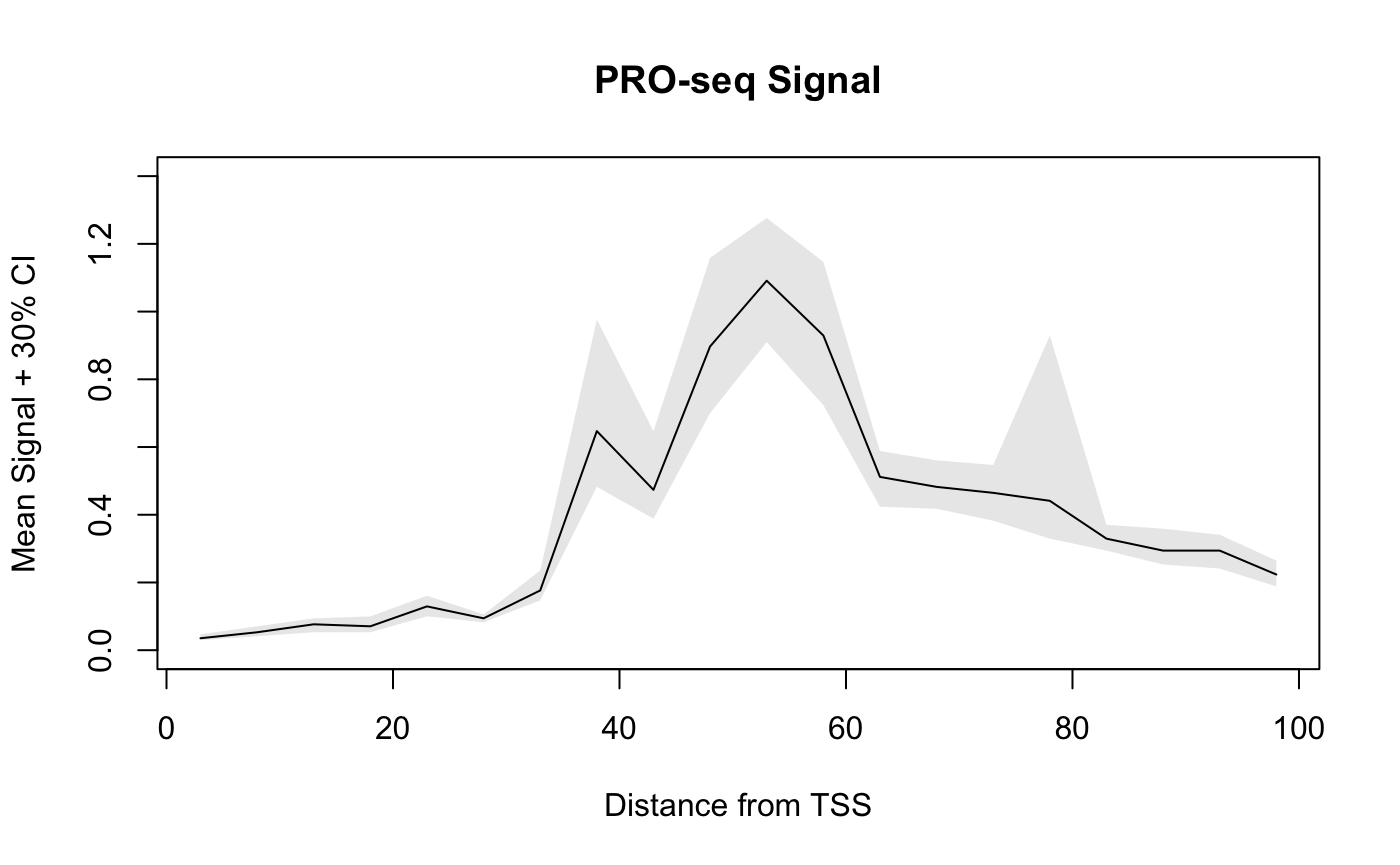
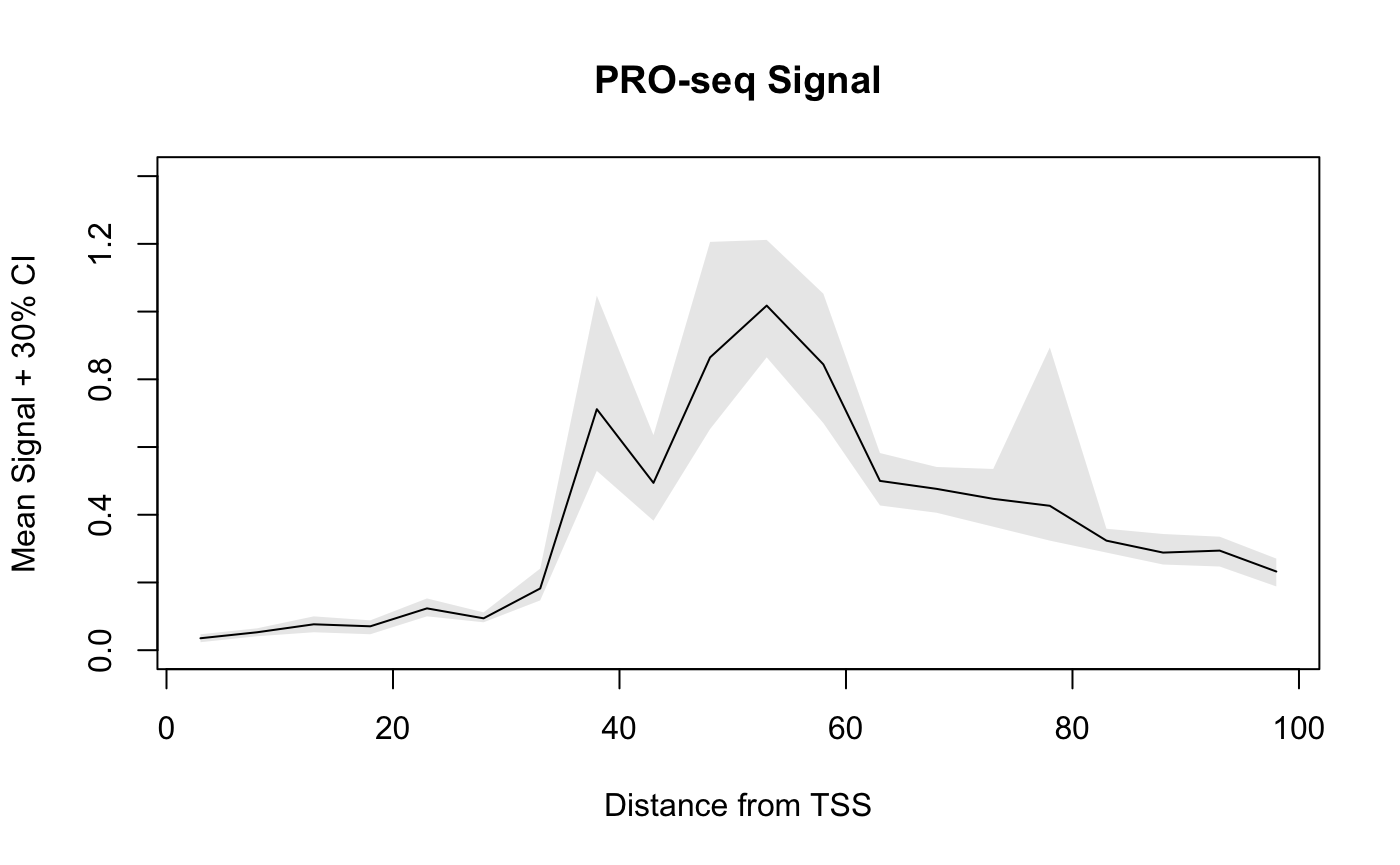
v0.99.15

diff --git a/articles/BRGenomicsOverview.html b/articles/BRGenomicsOverview.html
@@ -31,7 +31,7 @@
       </button>
       <span class="navbar-brand">
         <a class="navbar-link" href="../index.html">BRGenomics</a>
-        <span class="version label label-default" data-toggle="tooltip" data-placement="bottom" title="Released version">0.99.14</span>
+        <span class="version label label-default" data-toggle="tooltip" data-placement="bottom" title="Released version">0.99.15</span>
       </span>
     </div>
 
@@ -763,7 +763,7 @@
 <a class="sourceLine" id="cb96-2" data-line-number="2"><span class="co">## [1] TRUE</span></a></code></pre></div>
 <p>By default, an error is returned if input regions aren’t all the same size:</p>
 <div class="sourceCode" id="cb97"><pre class="sourceCode r"><code class="sourceCode r"><a class="sourceLine" id="cb97-1" data-line-number="1"><span class="kw"><a href="../reference/getCountsByPositions.html">getCountsByPositions</a></span>(PROseq, txs_dm6_chr4)</a></code></pre></div>
-<pre><code>## Error in .check_mw_arg(smw, melt, mw = TRUE): regions.gr contains ranges with multiple widths, but simplify.multi.widths is set to 'error'. Did you mean to call getCountsByRegions instead?</code></pre>
+<pre><code>## Error in .get_cbp_mw(hits, dataset.gr, regions.gr, binsize, FUN, smw, : regions.gr contains ranges with multiple widths, but simplify.multi.widths is set to 'error'. Did you mean to call getCountsByRegions instead?</code></pre>
 <p>An error is returned by default to avoid accidental use of <code>getCountsByPositions</code> in lieu of <code>getCountsByRegions</code>. However, for the rare case when users do intend to use multi-width regions, there is support for this using the <code>simplify.multi.widths</code> argument, which contains several useful options for how to do this (see the documentation for more details).</p>
 </div>
 <div id="example-plot-signal-over-a-gene" class="section level2">
@@ -1072,12 +1072,12 @@
 <a class="sourceLine" id="cb132-2" data-line-number="2">                              <span class="dt">lower =</span> <span class="fl">0.35</span>, <span class="dt">upper =</span> <span class="fl">0.65</span>, <span class="dt">ncores =</span> <span class="dv">1</span>)</a>
 <a class="sourceLine" id="cb132-3" data-line-number="3"><span class="kw"><a href="https://rdrr.io/r/utils/head.html">head</a></span>(bootmeans.df)</a></code></pre></div>
 <pre><code>##    x       mean      lower      upper sample.name
-## 1  3 0.03529412 0.02941176 0.04705882      PROseq
-## 2  8 0.05294118 0.04117647 0.07058824      PROseq
-## 3 13 0.07647059 0.05294118 0.09411765      PROseq
-## 4 18 0.07058824 0.05294118 0.10000000      PROseq
-## 5 23 0.12941176 0.10000000 0.16088235      PROseq
-## 6 28 0.09411765 0.08235294 0.10588235      PROseq</code></pre>
+## 1  3 0.03529412 0.02352941 0.04705882      PROseq
+## 2  8 0.05294118 0.04117647 0.06470588      PROseq
+## 3 13 0.07647059 0.05294118 0.10000000      PROseq
+## 4 18 0.07058824 0.04705882 0.08823529      PROseq
+## 5 23 0.12352941 0.10000000 0.15294118      PROseq
+## 6 28 0.09411765 0.08235294 0.11176471      PROseq</code></pre>
 <p>A dataframe is returned for plotting, and notice how the x-values have been automatically adjusted to be the center of the bins.</p>
 <p>Below, we show how to plot the confidence bands using base R plotting, as well as <code>ggplot2</code>.</p>
 <div class="sourceCode" id="cb134"><pre class="sourceCode r"><code class="sourceCode r"><a class="sourceLine" id="cb134-1" data-line-number="1"><span class="kw"><a href="https://rdrr.io/r/graphics/plot.html">plot</a></span>(mean <span class="op">~</span><span class="st"> </span>x, <span class="dt">data =</span> bootmeans.df, <span class="dt">type =</span> <span class="st">"l"</span>, </a>
@@ -1113,8 +1113,8 @@
 ## 1  3 0.01176471 0.005882353 0.01764706         ps1
 ## 2  8 0.01764706 0.011764706 0.02352941         ps1
 ## 3 13 0.01764706 0.011764706 0.02352941         ps1
-## 4 18 0.04117647 0.029411765 0.04911765         ps1
-## 5 23 0.02941176 0.023529412 0.04705882         ps1
+## 4 18 0.04117647 0.023529412 0.04705882         ps1
+## 5 23 0.02941176 0.017647059 0.04705882         ps1
 ## 6 28 0.02941176 0.023529412 0.03529412         ps1</code></pre>
 <div class="sourceCode" id="cb138"><pre class="sourceCode r"><code class="sourceCode r"><a class="sourceLine" id="cb138-1" data-line-number="1"><span class="kw"><a href="https://rdrr.io/r/base/library.html">require</a></span>(ggplot2)</a>
 <a class="sourceLine" id="cb138-2" data-line-number="2"><span class="kw"><a href="https://ggplot2.tidyverse.org/reference/ggplot.html">ggplot</a></span>(bm_list.df, <span class="kw"><a href="https://ggplot2.tidyverse.org/reference/aes.html">aes</a></span>(x, mean, <span class="dt">color =</span> sample.name)) <span class="op">+</span><span class="st"> </span></a>
@@ -1716,7 +1716,7 @@
 ##  bitops                 1.0-6    2013-08-17 [3]
 ##  blob                   1.2.1    2020-01-20 [3]
 ##  bookdown               0.17     2020-01-11 [3]
-##  BRGenomics           * 0.99.14  2020-03-04 [1]
+##  BRGenomics           * 0.99.15  2020-03-05 [1]
 ##  callr                  3.4.2    2020-02-12 [3]
 ##  cli                    2.0.2    2020-02-28 [3]
 ##  colorspace             1.4-1    2019-03-18 [3]
@@ -1893,8 +1893,8 @@
 ##  CRAN (R 4.0.0)                  
 ##  Bioconductor                    
 ## 
-## [1] /private/var/folders/zt/m504_3g569g6gqzjbqg34qn40000gn/T/RtmpK9GELN/temp_libpath160312e86d67c
-## [2] /private/var/folders/zt/m504_3g569g6gqzjbqg34qn40000gn/T/RtmpK9GELN/temp_libpath1603137f377d9
+## [1] /private/var/folders/zt/m504_3g569g6gqzjbqg34qn40000gn/T/RtmpWcLlqL/temp_libpath1794d25528e55
+## [2] /private/var/folders/zt/m504_3g569g6gqzjbqg34qn40000gn/T/RtmpWcLlqL/temp_libpath1794d2fa0e254
 ## [3] /Library/Frameworks/R.framework/Versions/4.0/Resources/library</code></pre>
 <!-- SCRAP -->
 <!-- The `import_bam` function provides several options for processing aligned reads, and in conjunction with functions from the *[rtracklayer](https://bioconductor.org/packages/3.11/rtracklayer)* package, we can easily write a post-alignment pipeline for generating bigWig files for viewing in a genome browser. -->

diff --git a/reference/getCountsByRegions.html b/reference/getCountsByRegions.html
@@ -37,7 +37,9 @@
 
 <meta property="og:title" content="Get signal counts in regions of interest — getCountsByRegions" />
 <meta property="og:description" content="Get the sum of the signal in dataset.gr that overlaps each range in
-regions.gr." />
+regions.gr. This function is written to calculate readcounts
+overlapping each region, and not &quot;coverage signal&quot; (see details
+below)." />
 <meta name="twitter:card" content="summary" />
 
 
@@ -70,7 +72,7 @@ regions.gr." />
       </button>
       <span class="navbar-brand">
         <a class="navbar-link" href="../index.html">BRGenomics</a>
-        <span class="version label label-default" data-toggle="tooltip" data-placement="bottom" title="Released version">0.99.14</span>
+        <span class="version label label-default" data-toggle="tooltip" data-placement="bottom" title="Released version">0.99.15</span>
       </span>
     </div>
 
@@ -123,7 +125,9 @@ regions.gr." />
 
     <div class="ref-description">
     <p>Get the sum of the signal in <code>dataset.gr</code> that overlaps each range in
-<code>regions.gr</code>.</p>
+<code>regions.gr</code>. This function is written to calculate <em>readcounts</em>
+overlapping each region, and <em>not</em> "coverage signal" (see details
+below).</p>
     </div>
 
     <pre class="usage"><span class='fu'>getCountsByRegions</span>(
@@ -201,6 +205,19 @@ of multiple datasets, or if <code>length(field) &gt; 1</code>.</p></td>
   (either by their indices, or by <code>region_names</code>, if given), another
   column to indicate signal, and a third column containing the sample name
   (unless <code>dataset.gr</code> is a single GRanges object).</p>
+    <h2 class="hasAnchor" id="details"><a class="anchor" href="#details"></a>Details</h2>
+
+    <p>This function is designed to work with data in which each range
+  represents one type of molecule, whether it's a single base (e.g. the 5'
+  ends, 3' ends, or centers of reads) or entire reads (i.e. paired 5' and 3'
+  ends of reads).</p>
+<p>This is in contrast to standard run-length compressed GRanges object, as
+  imported using <code><a href='https://rdrr.io/pkg/rtracklayer/man/BigWigFile.html'>rtracklayer::import.bw</a></code>,
+  in which a single range can represent multiple contiguous positions that
+  share the same signal information. This function does <em>not</em> expand
+  run-length compressed coverage objects. As an example, a range of length 10
+  with a score of 2 is treated as 2 reads (each spanning the same 10 bases),
+  not 20 reads.</p>
     <h2 class="hasAnchor" id="see-also"><a class="anchor" href="#see-also"></a>See also</h2>
 
     <div class='dont-index'><p><code><a href='getCountsByPositions.html'>getCountsByPositions</a></code></p></div>
@@ -232,6 +249,7 @@ of multiple datasets, or if <code>length(field) &gt; 1</code>.</p></td>
     <ul class="nav nav-pills nav-stacked">
       <li><a href="#arguments">Arguments</a></li>
       <li><a href="#value">Value</a></li>
+      <li><a href="#details">Details</a></li>
       <li><a href="#see-also">See also</a></li>
       <li><a href="#examples">Examples</a></li>
     </ul>

diff --git a/reference/import-functions.html b/reference/import-functions.html
@@ -70,7 +70,7 @@ files." />
       </button>
       <span class="navbar-brand">
         <a class="navbar-link" href="../index.html">BRGenomics</a>
-        <span class="version label label-default" data-toggle="tooltip" data-placement="bottom" title="Released version">0.99.14</span>
+        <span class="version label label-default" data-toggle="tooltip" data-placement="bottom" title="Released version">0.99.15</span>
       </span>
     </div>
 
@@ -188,9 +188,14 @@ simultaneously.</p></td>
   ranges are disjoint and have width = 1, and the <code>score</code> is single-base
   coverage, i.e. the number of reads for each position.</p>
 <p><code>import_bedGraph</code> is useful for when both 5'- and 3'-end information
-  is to be maintained for each sequenced molecule. It effectively imports the
-  entire read, and the <code>score</code> represents the number of reads sharing
-  identical 5' and 3' ends.</p>
+  is to be maintained for each sequenced molecule. For this purpose, one use
+  bedGraphs to store entire reads, with the <code>score</code> representing the
+  number of reads sharing identical 5' and 3' ends. However,
+  <code>import_bedGraph</code> doesn't modify the information in the bedGraph
+  files. If the bedGraph file represents basepair-resolution coverage data,
+  then users can coerce it to a basepair-resolution GRanges object by using
+  <code><a href='getStrandedCoverage.html'>getStrandedCoverage</a></code> followed
+  by <code><a href='makeGRangesBRG.html'>makeGRangesBRG</a></code>.</p>
     <h2 class="hasAnchor" id="see-also"><a class="anchor" href="#see-also"></a>See also</h2>
 
     <div class='dont-index'><p><code><a href='tidyChromosomes.html'>tidyChromosomes</a></code>,

diff --git a/reference/getCountsByPositions.html b/reference/getCountsByPositions.html
@@ -39,7 +39,9 @@
 <meta property="og:description" content="Get the sum of the signal in dataset.gr that overlaps each position
 within each range in regions.gr. If binning is used (i.e. positions
 are wider than 1 bp), any function can be used to summarize the signal
-overlapping each bin." />
+overlapping each bin. Just as in 
+getCountsByRegions, this function calculates readcounts overlapping
+positions, and not &quot;coverage signal&quot;." />
 <meta name="twitter:card" content="summary" />
 
 
@@ -72,7 +74,7 @@ overlapping each bin." />
       </button>
       <span class="navbar-brand">
         <a class="navbar-link" href="../index.html">BRGenomics</a>
-        <span class="version label label-default" data-toggle="tooltip" data-placement="bottom" title="Released version">0.99.14</span>
+        <span class="version label label-default" data-toggle="tooltip" data-placement="bottom" title="Released version">0.99.15</span>
       </span>
     </div>
 
@@ -127,7 +129,9 @@ overlapping each bin." />
     <p>Get the sum of the signal in <code>dataset.gr</code> that overlaps each position
 within each range in <code>regions.gr</code>. If binning is used (i.e. positions
 are wider than 1 bp), any function can be used to summarize the signal
-overlapping each bin.</p>
+overlapping each bin. Just as in <code><a href='getCountsByRegions.html'>
+getCountsByRegions</a></code>, this function calculates <em>readcounts</em> overlapping
+positions, and not "coverage signal".</p>
     </div>
 
     <pre class="usage"><span class='fu'>getCountsByPositions</span>(

diff --git a/news/index.html b/news/index.html
@@ -67,7 +67,7 @@
       </button>
       <span class="navbar-brand">
         <a class="navbar-link" href="../index.html">BRGenomics</a>
-        <span class="version label label-default" data-toggle="tooltip" data-placement="bottom" title="Released version">0.99.14</span>
+        <span class="version label label-default" data-toggle="tooltip" data-placement="bottom" title="Released version">0.99.15</span>
       </span>
     </div>
 
@@ -120,6 +120,11 @@
     <div id="brgenomics-0-99-bioconductor-submission" class="section level2">
 <h2 class="hasAnchor">
 <a href="#brgenomics-0-99-bioconductor-submission" class="anchor"></a>BRGenomics 0.99 Bioconductor Submission</h2>
+<p>[0.99.15]</p>
+<ul>
+<li>Add pre-filtering to counting functions for performance</li>
+<li>Some additional clarification of readcounts vs. coverage signal in counting and import functions</li>
+</ul>
 <p>[0.99.14]</p>
 <ul>
 <li>Change tidyChromosomes test</li>

diff --git a/reference/binNdimensions.html b/reference/binNdimensions.html
@@ -70,7 +70,7 @@ summarize the datapoints that fall into any of these n-dimensional bins." />
       </button>
       <span class="navbar-brand">
         <a class="navbar-link" href="../index.html">BRGenomics</a>
-        <span class="version label label-default" data-toggle="tooltip" data-placement="bottom" title="Released version">0.99.14</span>
+        <span class="version label label-default" data-toggle="tooltip" data-placement="bottom" title="Released version">0.99.15</span>
       </span>
     </div>
 

diff --git a/reference/import_bam.html b/reference/import_bam.html
@@ -70,7 +70,7 @@ processing options. It is highly recommend to index the BAM file first." />
       </button>
       <span class="navbar-brand">
         <a class="navbar-link" href="../index.html">BRGenomics</a>
-        <span class="version label label-default" data-toggle="tooltip" data-placement="bottom" title="Released version">0.99.14</span>
+        <span class="version label label-default" data-toggle="tooltip" data-placement="bottom" title="Released version">0.99.15</span>
       </span>
     </div>
 

diff --git a/reference/txs_dm6_chr4.html b/reference/txs_dm6_chr4.html
@@ -73,7 +73,7 @@ the TxDb package using GenomicFeatures version 1.35.11 on 2019-12-19." />
       </button>
       <span class="navbar-brand">
         <a class="navbar-link" href="../index.html">BRGenomics</a>
-        <span class="version label label-default" data-toggle="tooltip" data-placement="bottom" title="Released version">0.99.14</span>
+        <span class="version label label-default" data-toggle="tooltip" data-placement="bottom" title="Released version">0.99.15</span>
       </span>
     </div>
 

diff --git a/reference/mergeGRangesData.html b/reference/mergeGRangesData.html
@@ -72,7 +72,7 @@ multiplexed GRanges containing a field for each input dataset." />
       </button>
       <span class="navbar-brand">
         <a class="navbar-link" href="../index.html">BRGenomics</a>
-        <span class="version label label-default" data-toggle="tooltip" data-placement="bottom" title="Released version">0.99.14</span>
+        <span class="version label label-default" data-toggle="tooltip" data-placement="bottom" title="Released version">0.99.15</span>
       </span>
     </div>
 

diff --git a/reference/BRGenomics-package.html b/reference/BRGenomics-package.html
@@ -74,7 +74,7 @@ For interactive documentation with code examples, see the online
       </button>
       <span class="navbar-brand">
         <a class="navbar-link" href="../index.html">BRGenomics</a>
-        <span class="version label label-default" data-toggle="tooltip" data-placement="bottom" title="Released version">0.99.14</span>
+        <span class="version label label-default" data-toggle="tooltip" data-placement="bottom" title="Released version">0.99.15</span>
       </span>
     </div>
 

diff --git a/reference/genebodies.html b/reference/genebodies.html
@@ -70,7 +70,7 @@ start and end sites of regions of interest (usually genes)." />
       </button>
       <span class="navbar-brand">
         <a class="navbar-link" href="../index.html">BRGenomics</a>
-        <span class="version label label-default" data-toggle="tooltip" data-placement="bottom" title="Released version">0.99.14</span>
+        <span class="version label label-default" data-toggle="tooltip" data-placement="bottom" title="Released version">0.99.15</span>
       </span>
     </div>
 

diff --git a/reference/getStrandedCoverage.html b/reference/getStrandedCoverage.html
@@ -70,7 +70,7 @@ Function also works for non-strand-specific data." />
       </button>
       <span class="navbar-brand">
         <a class="navbar-link" href="../index.html">BRGenomics</a>
-        <span class="version label label-default" data-toggle="tooltip" data-placement="bottom" title="Released version">0.99.14</span>
+        <span class="version label label-default" data-toggle="tooltip" data-placement="bottom" title="Released version">0.99.15</span>
       </span>
     </div>
 
